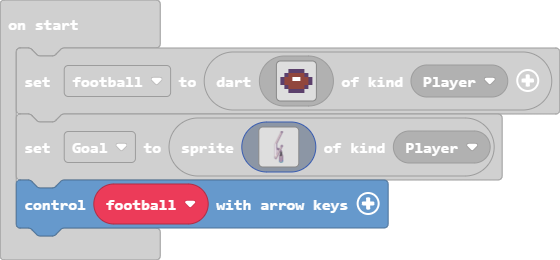
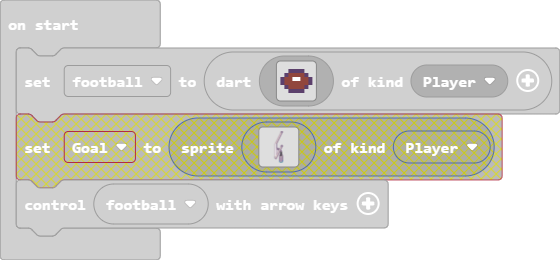
Update main.blocks, main.ts

Changed region(s): [[0.0304, 0.4308, 0.9107, 0.9231]]

diff --git a/main.ts b/main.ts
@@ -1,68 +1,2 @@
 let football = darts.create(assets.image`myImage`, SpriteKind.Player)
-let Goal = sprites.create(img`
-    .............cc.
-    ............cbbc
-    ............cbbc
-    ...........bdcc.
-    ...........bdbb.
-    ..........bddc..
-    ..........bdbb..
-    .........bddc...
-    .........bdbb...
-    ........bddc....
-    ........bdbb....
-    .......bddc.....
-    .......bdbb.....
-    ......bddc......
-    ......bdbb......
-    .....bddc.......
-    .....bdbb.......
-    ....bddc........
-    ....bdbb........
-    ...bddc.........
-    ...bdbb.........
-    ..bddc..........
-    ..bdbb..........
-    .bddc...........
-    .bdbb...........
-    b1dc............
-    b11c............
-    b11c............
-    b11c.........cc.
-    b11c........cbbc
-    b11c........cbbc
-    b11c.......bdcc.
-    b11c.......bdbb.
-    b11c......bddc..
-    b11bccc...bdbb..
-    b11bbbbcccddc...
-    b11bcccbccdbb...
-    b11b..ccbddc....
-    b11b...ccdbbc...
-    b11b...bddcbc...
-    b11b...bdbbcbc..
-    b11b..bddc.fbc..
-    b11b..bdbb.fbf..
-    b11b.bddc..fcf..
-    b11b.bdbb..fcf..
-    b11bbddc...fcf..
-    b11bbdbb...fcf..
-    b11bddc...cfcfc.
-    b11ddbb..cbfcfbc
-    b1dddc...cdfffdc
-    b1ddbb...cdcfcdc
-    cdddc....cbdddbc
-    cddbb....cbbbbbc
-    cddc.....cbbbbbc
-    cdbb.....cbbbbbc
-    .cc......cbbbbbc
-    .........cbbbbbc
-    .........cbbbbbc
-    .........cbbbbbc
-    .........8bbbbb8
-    .........8bbbbb8
-    .........6bbbbb6
-    ..........6bbb6.
-    ...........666..
-    `, SpriteKind.Player)
 football.controlWithArrowKeys()
